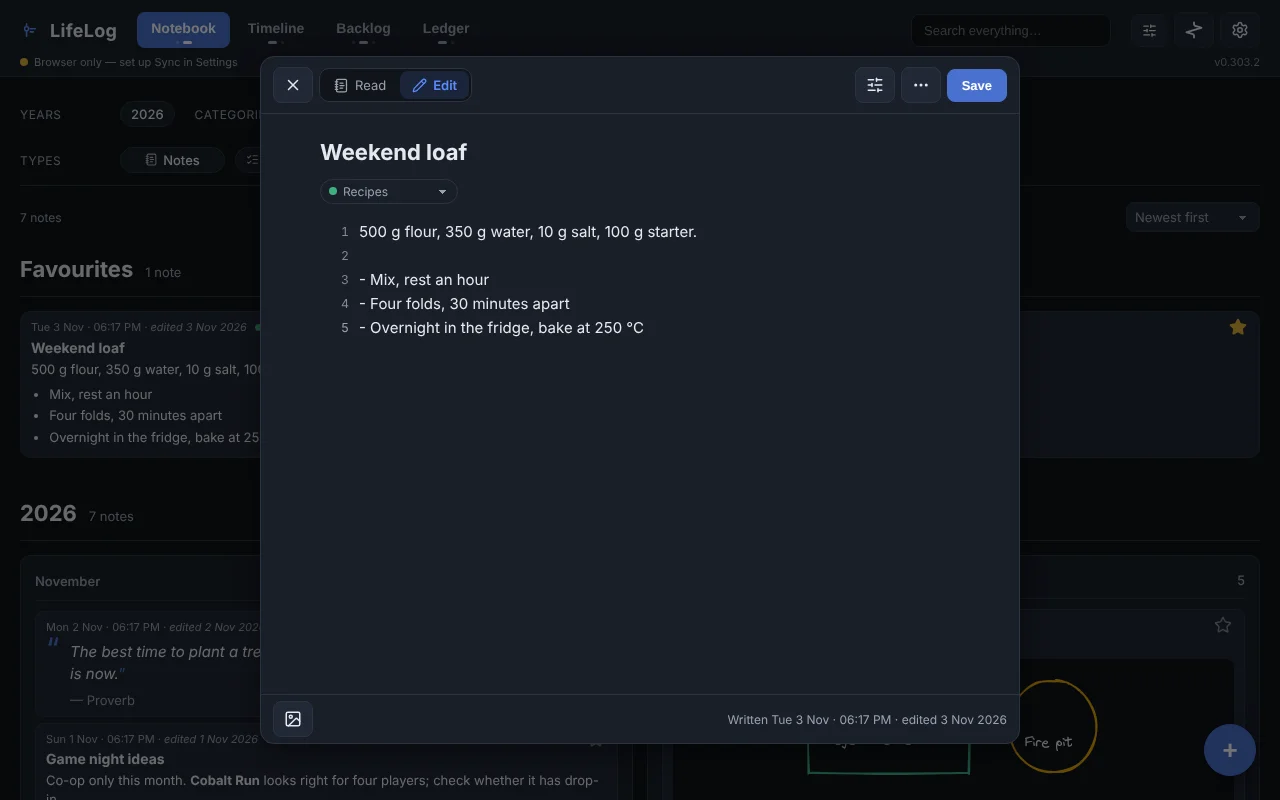
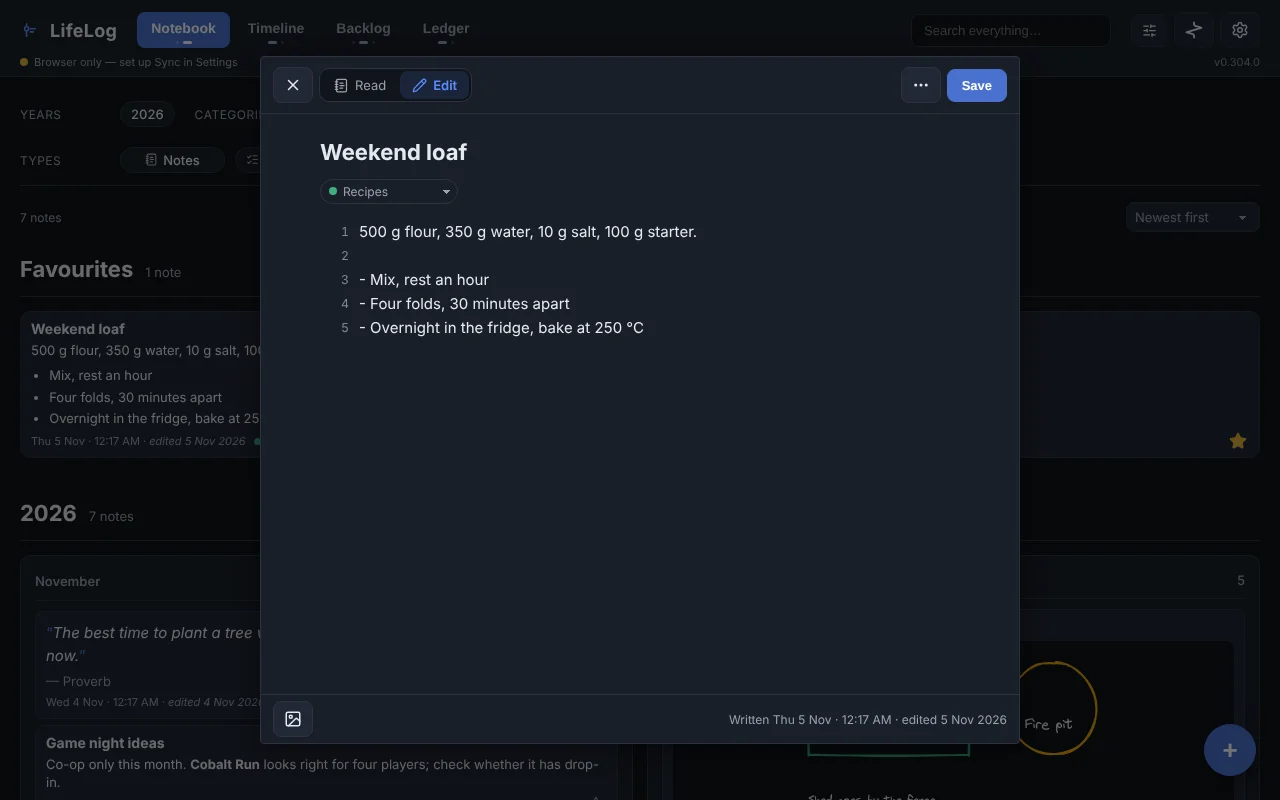
Notes on phones: full screen in the app, category picker, Back closes, no keyboard on Edit, card stamps at the foot
- The native overlay's padding outranked .nv-overlay's padding: 0, so the
  full-screen note floated with the page above and below it and counted the
  safe areas twice.
- .nv-cat::after (the 44px reach) lay over the select and took the tap; a
  label tap only focuses a select. The reach is now the select's own padding.
- Escape, and so Android Back, closed neither the editor nor the reader.
- openNoteModal focused the text for existing notes, popping the keyboard on
  Edit; only a new note starts typing now.
- Cards: stamp row at the foot (flex, star at its end), quote marks inline,
  no presentation icon on board cards. View buttons left the note.

Claude-Session: https://claude.ai/code/session_01CFeKrkW8Tx3Gf3wdtTxLtT

diff --git a/test/browser/notesheet.js b/test/browser/notesheet.js
@@ -103,7 +103,7 @@ async function run(b, width) {
   check("the dates sit in the foot" + at, await page.evaluate(() => !!document.querySelector(".nv-foot #noteStampLine:not([hidden])")));
   check("no line numbers until they're on" + at, await page.evaluate(() => getComputedStyle(document.querySelector("#nGutter")).display === "none"));
   await page.fill("#nText", "One\nTwo that is long enough to wrap on a phone screen, and then some more words after that\n\nFour");
-  await page.evaluate(() => window.LifeLogSettings.openViewOptions("notes", true));
+  await page.evaluate(() => window.LifeLogSettings.openViewOptions("notes"));
   await page.selectOption("#noteLineNumbers", "on");
   await page.click("#closeViewOptionsBtn");
   const nums = await page.evaluate(() => [...document.querySelectorAll("#nGutter > span")].map((s) => [s.textContent, s.getBoundingClientRect().height]));
@@ -117,7 +117,7 @@ async function run(b, width) {
   d = await saved();
   check("with the text kept" + at, /Four$/.test(d.notes.find((n) => n.title === "Idea").text));
   await page.click("#closeNoteReaderBtn");
-  await page.evaluate(() => window.LifeLogSettings.openViewOptions("notes", true));
+  await page.evaluate(() => window.LifeLogSettings.openViewOptions("notes"));
   await page.selectOption("#noteOpenIn", "edit");
   await page.click("#closeViewOptionsBtn");
   await page.evaluate(() => window.LifeLogNotes.openNote(window.LifeLogStorage.cachedCopy().notes.find((n) => n.title === "Idea")));
@@ -141,6 +141,47 @@ async function run(b, width) {
   }));
   await shot("quote");
   await page.click("#cancelNoteBtn");
+
+  // ---- 0.304.x phone fixes ----
+  await page.evaluate(() => window.LifeLogNotes.openNoteModal(null));
+  check("the whole category chip is the picker, not a label over it" + at, await page.evaluate(() => {
+    const c = document.querySelector("#noteModal .nv-cat").getBoundingClientRect();
+    return [c.left + 3, c.left + c.width / 2, c.right - 3].every((x) => document.elementFromPoint(x, c.top + c.height / 2).id === "nCategory");
+  }));
+  check("a note has no View button of its own; Notebook's View has the options" + at,
+    await page.evaluate(() => !document.querySelector("#noteModal .nv-bar [aria-label='View options'], #noteReader .nv-bar [aria-label='View options']")));
+  await page.keyboard.press("Escape");
+  check("Escape (and phone Back) shuts the editor" + at, await page.evaluate(() => document.querySelector("#noteModal").hidden));
+  await page.evaluate(() => window.LifeLogNotes.openNoteReader(window.LifeLogStorage.cachedCopy().notes.find((n) => n.title === "Idea").id));
+  await page.keyboard.press("Escape");
+  check("and the reader" + at, await page.evaluate(() => document.querySelector("#noteReader").hidden));
+  await page.evaluate(() => window.LifeLogNotes.openNoteReader(window.LifeLogStorage.cachedCopy().notes.find((n) => n.title === "Idea").id));
+  await page.click("#editNoteReaderBtn");
+  await page.waitForTimeout(50);
+  check("switching to Edit doesn't put the cursor in the text (no keyboard)" + at,
+    await page.evaluate(() => !document.querySelector("#noteModal").hidden && !["INPUT", "TEXTAREA"].includes(document.activeElement.tagName)));
+  await page.click("#cancelNoteBtn");
+
+  if (width < 720) {
+    // In the phone app the sheet fills the screen to its edges and keeps
+    // only its own bar and foot clear of the status and gesture bars; the
+    // padding every other sheet gets on native would float it over the page.
+    const fit = await page.evaluate(() => {
+      const html = document.documentElement;
+      html.classList.add("native");
+      html.style.setProperty("--safe-area-inset-top", "40px");
+      html.style.setProperty("--safe-area-inset-bottom", "30px");
+      window.LifeLogNotes.openNoteModal(null);
+      const m = document.querySelector("#noteModal > .modal").getBoundingClientRect();
+      const bar = document.querySelector("#noteModal .nv-bar").getBoundingClientRect();
+      const foot = document.querySelector("#noteModal .nv-foot").getBoundingClientRect();
+      return { m: [m.top, m.bottom], bar: bar.top, foot: foot.bottom, h: innerHeight };
+    });
+    check("on native the note fills the screen, its bar and foot clear of the system bars" + at,
+      fit.m[0] === 0 && fit.m[1] === fit.h && fit.bar === 40 && fit.foot === fit.h - 30, fit);
+    await page.click("#cancelNoteBtn");
+    await page.evaluate(() => document.documentElement.classList.remove("native"));
+  }
 
   check("the page doesn't scroll sideways" + at, await page.evaluate(() => document.documentElement.scrollWidth <= innerWidth));
   check("no errors" + at, errs.length === 0, errs);

diff --git a/src/styles.css b/src/styles.css
@@ -1241,7 +1241,13 @@ select:focus { outline: none; border-color: var(--accent); }
 .note-card:focus-visible { outline: 2px solid var(--accent); outline-offset: 2px; }
 /* After :hover, so a selected card stays marked while the pointer is over it. */
 .note-card.is-selected { border-color: var(--accent); background: var(--accent-soft); }
-.note-stamp { font-size: var(--fs-2xs); color: var(--text-dim); margin-bottom: 4px; }
+.note-stamp {
+  display: flex; align-items: center; flex-wrap: wrap;
+  font-size: var(--fs-2xs); color: var(--text-dim); margin-top: var(--space-6);
+}
+/* At the foot the star ends the line instead of floating past the card. */
+.note-stamp .note-fav { float: none; margin: -4px -4px -4px auto; }
+.note-stamp .note-edited { white-space: pre; }
 .note-edited { font-style: italic; }
 .note-text {
   margin: 0; font-size: var(--fs-sm); color: var(--text); line-height: 1.45;
@@ -4312,16 +4318,15 @@ html.force-mobile .view-options-overlay[hidden] > .modal { translate: 0 100%; }
 }
 .note-cat .dot { width: 7px; height: 7px; border-radius: 50%; display: inline-block; }
 
-/* A quote reads as one: bigger, italic, hung inside its own marks. */
+/* A quote reads as one: bigger, italic, inside its own marks. */
 .note-card .note-quote {
-  position: relative; padding: 2px 4px 0 24px; font-size: var(--fs-read); font-style: italic; line-height: 1.5;
+  padding: 2px 4px 0 0; font-size: var(--fs-read); font-style: italic; line-height: 1.5;
 }
-.note-card .note-quote::before {
-  content: "\201C"; position: absolute; left: 0; top: -6px;
-  font-size: var(--fs-3xl); line-height: 1; font-style: normal; color: var(--accent); opacity: .8;
-}
+/* The marks sit in the line, the same size as the words (Daniel, 2026-11-06:
+   a big hung opening mark read as offset from the text). */
+.note-card .note-quote::before { content: "\201C"; color: var(--accent); opacity: .8; font-style: normal; }
 .note-card .note-quote::after { content: "\201D"; color: var(--accent); opacity: .8; font-style: normal; }
-.note-author { margin: 6px 0 0 24px; font-size: var(--fs-sm); color: var(--text-dim); }
+.note-author { margin: 6px 0 0; font-size: var(--fs-sm); color: var(--text-dim); }
 
 /* A list is the To-do mode's panel (0.196.0): its header, the old rows,
    the done rule and the add line, on the panel's own surface. Only the
@@ -4510,10 +4515,16 @@ html.force-mobile .view-options-overlay[hidden] > .modal { translate: 0 100%; }
   font: inherit; padding: 0; margin: 0; width: auto; min-width: 0; min-height: 0; cursor: pointer;
 }
 #noteModal .nv-cat select:focus { outline: none; box-shadow: none; }
-/* 44px tall to press on a phone, without moving the text under it. */
-.nv-cat::after { content: ""; position: absolute; inset: -10px -4px; }
+/* 44px tall to press on a phone, without moving the text under it, and the
+   whole chip, dot included, opens the picker. The reach is the select's own
+   padding: a box laid over it would take the tap,
+   and tapping a label only focuses its select, it doesn't open it. */
+#noteModal .nv-cat select {
+  --nv-cat-lead: calc(var(--space-8) + 8px + var(--space-6));
+  position: relative; padding: 14px 24px 14px var(--nv-cat-lead) !important;
+  margin: -14px calc(-1 * var(--space-4)) -14px calc(-1 * var(--nv-cat-lead));
+}
 .nv-cat-static { cursor: default; padding-right: var(--space-10); }
-.nv-cat-static::after { content: none; }
 .nv-cat-static[hidden] { display: none; }
 #noteForm .note-kind-seg { margin: 0 0 var(--space-16); }
 #noteForm .note-kind-seg[hidden] { display: none; }
@@ -4611,6 +4622,7 @@ html.note-text-large #noteReader .md { font-size: var(--fs-xl); }
   html.note-text-large .nv-editor { --nv-fs: var(--fs-xl); }
   .nv-gutter { width: 2em; }
   #noteForm #nText { min-height: 55vh; }
+  html.native .nv-overlay { padding: 0; }
   html.native .nv-overlay > .modal.nv { padding-top: var(--sat); padding-bottom: var(--sab); }
 }
 html.force-mobile .nv-overlay { padding: 0; align-items: stretch; }
@@ -4625,6 +4637,7 @@ html.force-mobile .nv-editor, html.note-text-small.force-mobile .nv-editor { --n
 html.note-text-large.force-mobile .nv-editor { --nv-fs: var(--fs-xl); }
 html.force-mobile .nv-gutter { width: 2em; }
 html.force-mobile #noteForm #nText { min-height: 55vh; }
+html.native.force-mobile .nv-overlay { padding: 0; }
 html.native.force-mobile .nv-overlay > .modal.nv { padding-top: var(--sat); padding-bottom: var(--sab); }
 @media (max-width: 720px) {
   .coll-grid { grid-template-columns: 1fr 1fr; gap: 8px; }

diff --git a/src/notes.js b/src/notes.js
@@ -398,7 +398,6 @@
     // ★ keeps a note at the top, above the years (0.196.0) — a board too (0.208.0).
     if (!state.bulk.active) stamp.appendChild(favButton(n));
     if (isBoardItem(n)) return boardCard(card, n, stamp);
-    card.appendChild(stamp);
     // textContent, never innerHTML: a note is whatever you typed, and the
     // white-space CSS is what keeps your line breaks.
     const kind = kindOf(n);
@@ -416,6 +415,8 @@
       if (n.title) card.appendChild(el("h4", "note-title", n.title));
       if (n.text) card.appendChild(noteBody(n.text));
     }
+    // The words first, when and where at the foot, as in the note itself.
+    card.appendChild(stamp);
     card.tabIndex = 0;
     card.setAttribute("role", "button");
     return card;
@@ -432,14 +433,14 @@
     return fav;
   }
 
-  // A board in the feed: its stamp and category, its name, its picture.
+  // A board in the feed: its name, its picture, then its stamp and category.
   function boardCard(card, n, stamp) {
     card.classList.add("is-board");
-    card.appendChild(stamp);
-    card.appendChild(el("p", "note-text note-list-title")).appendChild(window.LifeLogIcons.labelled("presentation", n.text));
+    card.appendChild(el("p", "note-text note-list-title", n.text));
     const thumb = el("div", "board-thumb-inline");
     thumb.appendChild(window.LifeLogBoards.thumbnail(n.board));
     card.appendChild(thumb);
+    card.appendChild(stamp);
     card.tabIndex = 0;
     card.setAttribute("role", "button");
     return card;
@@ -1640,7 +1641,10 @@
     $("#noteForm").scrollTop = 0;
     if ($("#noteModal").hidden) $("#noteModal").hidden = false;
     fitText();
-    (sheetKind === "list" ? (note ? $("#nNewItem") : $("#nTitle")) : $("#nText")).focus({ preventScroll: true });
+    // Only a new note starts typing. An existing one, opened to edit or
+    // switched to Edit from reading, waits for a tap, so the phone's
+    // keyboard doesn't cover what you were about to read.
+    if (!note) (sheetKind === "list" ? $("#nTitle") : $("#nText")).focus({ preventScroll: true });
   }
   function closeNoteModal() { closeNoteMenu(); $("#noteModal").hidden = true; }
 
@@ -1713,9 +1717,6 @@
       saveNote(() => { closeNoteMenu(); openNoteReader(id); swapSheets("#noteModal", "#noteReader"); });
     };
     $("#cancelNoteBtn").onclick = closeNoteModal;
-    const viewOptions = () => { closeNoteMenu(); window.LifeLogSettings.openViewOptions("notes", true); };
-    $("#noteViewBtn").onclick = viewOptions;
-    $("#noteReaderViewBtn").onclick = viewOptions;
     $("#noteMoreBtn").onclick = (ev) => { ev.stopPropagation(); toggleNoteMenu(); };
     $("#noteMoreMenu").addEventListener("click", (ev) => { if (ev.target.closest("button")) closeNoteMenu(); });
     $("#noteModal").addEventListener("pointerdown", (ev) => {

diff --git a/index.html b/index.html
@@ -340,7 +340,6 @@
         </div>
         <h2 id="noteModalTitle" class="sr-only">New note</h2>
         <span class="spacer"></span>
-        <button type="button" class="btn btn-icon" id="noteViewBtn" title="View options" aria-label="View options"><span data-ico="sliders-horizontal"></span></button>
         <button type="button" class="btn btn-icon" id="noteMoreBtn" title="More" aria-label="More" aria-haspopup="menu" aria-expanded="false"><span data-ico="ellipsis"></span></button>
         <button type="submit" form="noteForm" class="btn btn-primary">Save</button>
         <div class="nv-menu" id="noteMoreMenu" role="menu" hidden>
@@ -407,7 +406,6 @@
           <button type="button" id="editNoteReaderBtn"><span data-ico="pencil"></span><span class="nv-mode-label">Edit</span></button>
         </div>
         <span class="spacer"></span>
-        <button type="button" class="btn btn-icon" id="noteReaderViewBtn" title="View options" aria-label="View options"><span data-ico="sliders-horizontal"></span></button>
       </div>
       <div class="nv-scroll">
         <div class="nv-col">

diff --git a/src/settings.js b/src/settings.js
@@ -904,14 +904,10 @@
 
   // Opened from a search result for another tab, it goes to that tab first:
   // the options are for seeing their effect, which needs the list under them.
-  // `here`: opened over a note, which may be one from another tab's search,
-  // so the tab behind stays where it is.
-  function openViewOptions(view, here) {
+  function openViewOptions(view) {
     view = view || viewKey(state.view);
     if (!hasViewOptions(view)) return;
-    if (here) {
-      // nothing to switch to
-    } else if (view === "habits") {
+    if (view === "habits") {
       if (viewKey(state.view) !== "habits") {
         state.notesMode = "habits";
         if (state.view !== "notes" && switchToView) switchToView("notes"); else render();

diff --git a/src/app.js b/src/app.js
@@ -4811,6 +4811,9 @@
         Backlog.closePickModal(); Backlog.closeOutTodaySheet();
         Finance.closeFinanceModal(); Finance.closeRecurringModal(); Finance.closeChangePlanModal();
         Finance.closePauseModal(); Finance.cancelFinanceCatModal();
+        // A note, read or written, shuts the way its × does (phone Back too),
+        // unless a new category's sheet is up over it: that one goes first.
+        if ($("#noteCatModal").hidden) { Notes.closeNoteModal(); Notes.closeNoteReader(); }
         Habits.closeHabitModal(); Habits.closeAmountModal(); Notes.closeNoteCatModal();
         Travel.closeTripModal(); Travel.closePlaceModal(); Travel.closeImportModal(); Share.close();
         SettingsUI.closeSettings();

diff --git a/changes/fix-note-safe-area.md b/changes/fix-note-safe-area.md
@@ -1,0 +1,11 @@
+### Fixed
+- On a phone a note fills the screen to its edges again: the bar and the foot clear the status and gesture bars once, instead of the note floating with the page showing above and below it.
+- The category chip in a note's editor opens the picker wherever you tap it.
+- Back on the phone (and Escape) closes a note, whether you're reading or writing it.
+- Switching a note to Edit no longer opens the keyboard; tap where you want to type. A new note still starts typing.
+- A quote's opening mark sits in the line at the same size as its closing one.
+- A board's card no longer shows the boards icon by its name.
+
+### Changed
+- On Notebook's cards the date, category and star sit at the foot, under the note.
+- The View options moved out of the note: Notebook's own View button has them (line numbers, text size, open a note in).
